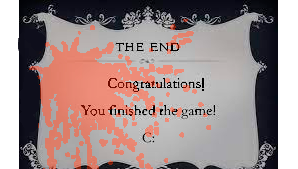
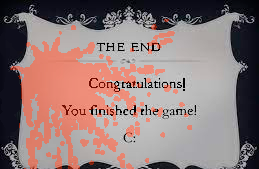
Добавил фон Добавил финальную заставку

diff --git a/main.py b/main.py
@@ -2,6 +2,9 @@ import pygame
 import os
 import sys
 import random
+# Нужно написать комментарии
+# Нужно сделать презентацию
+# Нужно написать документацию
 WIDTH = 600
 HEIGHT = 500
 FPS = 30
@@ -87,6 +90,7 @@ def levels():
     opened_levels = open('data\\opened_levels.txt', mode='r', encoding='utf-8').read().split()[0]
     global current_window
     screen.fill(BLUE)
+    screen.blit(pygame.transform.scale(load_image('фон.png'), (WIDTH, 336)), (0, 0))
     levels_sprites = pygame.sprite.Group()
     btn_1 = Button('levels_btn1', levels_sprites, (172, 200))
     btn_2 = Button('levels_btn2', levels_sprites, (256, 200))
@@ -168,7 +172,10 @@ def you_win(score, level):
     global current_window
     with open('data\\opened_levels.txt', mode='w', encoding='utf-8') as z:
         print(str(level + 1), end='', file=z)
-    image = pygame.transform.scale(load_image('you_win.png'), (WIDTH, HEIGHT))
+    if level < 3:
+        image = pygame.transform.scale(load_image('you_win.png'), (WIDTH, HEIGHT))
+    else:
+        image = pygame.transform.scale(load_image('конец.png'), (WIDTH, HEIGHT))
     screen.fill(BLUE)
     screen.blit(image, (0, 0))
     font = pygame.font.Font(None, 35)
@@ -227,10 +234,10 @@ def main_menu():
     global current_window
     screen.fill(BLUE)
     main_menu_sprites = pygame.sprite.Group()
-    screen.blit(load_image('preview-image-1.png'), (0, 0))
-    start_btn = Button('main_menu_start', main_menu_sprites, (200, 100))
-    settings_btn = Button('main_menu_settings', main_menu_sprites, (200, 200))
-    quit_btn = Button('main_menu_quit', main_menu_sprites, (200, 300))
+    screen.blit(pygame.transform.scale(load_image('preview-image-1.png'), (WIDTH, HEIGHT)), (0, 0))
+    start_btn = Button('main_menu_start', main_menu_sprites, (367, 200))
+    settings_btn = Button('main_menu_settings', main_menu_sprites, (367, 300))
+    quit_btn = Button('main_menu_quit', main_menu_sprites, (367, 400))
     start_screen_running = True
     while start_screen_running:
         for event in pygame.event.get():
@@ -256,6 +263,7 @@ def main_menu():
 def settings():
     screen.fill(BLUE)
     settings_sprites = pygame.sprite.Group()
+    screen.blit(pygame.transform.scale(load_image('фон2.png'), (WIDTH, 338)), (0, 80))
     settings_running = True
     delete_btn = Button('delete_progress', settings_sprites, (100, HEIGHT / 2))
     back_btn = Button('levels_back', settings_sprites, (10, 400))
@@ -281,11 +289,12 @@ def pause():
     global current_window
     screen.fill(BLUE)
     pause_sprites = pygame.sprite.Group()
+    screen.blit(pygame.transform.scale(load_image('фон3.png'), (WIDTH, HEIGHT)), (0, 0))
     pause_running = True
-    resume_btn = Button('pause_resume', pause_sprites, (200, 0))
-    settings_btn = Button('pause_settings', pause_sprites, (200, 110))
-    menu_btn = Button('pause_main_menu', pause_sprites, (200, 210))
-    quit_btn = Button('pause_quit', pause_sprites, (200, 310))
+    resume_btn = Button('pause_resume', pause_sprites, (367, 0))
+    settings_btn = Button('pause_settings', pause_sprites, (367, 110))
+    menu_btn = Button('pause_main_menu', pause_sprites, (367, 210))
+    quit_btn = Button('pause_quit', pause_sprites, (367, 310))
     while pause_running:
         for event in pygame.event.get():
             if event.type == pygame.QUIT:
@@ -300,6 +309,8 @@ def pause():
             return
         if settings_btn.clicked:
             settings()
+            screen.fill(BLUE)
+            screen.blit(pygame.transform.scale(load_image('фон3.png'), (WIDTH, HEIGHT)), (0, 0))
         if menu_btn.clicked:
             current_window = 'main_menu'
             return True
@@ -382,6 +393,9 @@ class Button(pygame.sprite.Sprite):
             self.clicked_time += 1
         if self.clicked_time > 20:
             self.clicked = True
+            self.clicked_time = 0
+        elif self.clicked_time == 0:
+            self.clicked = False
         if self.rect.collidepoint(pygame.mouse.get_pos()):
             if any(pygame.mouse.get_pressed()):
                 self.clicked_time = 1
